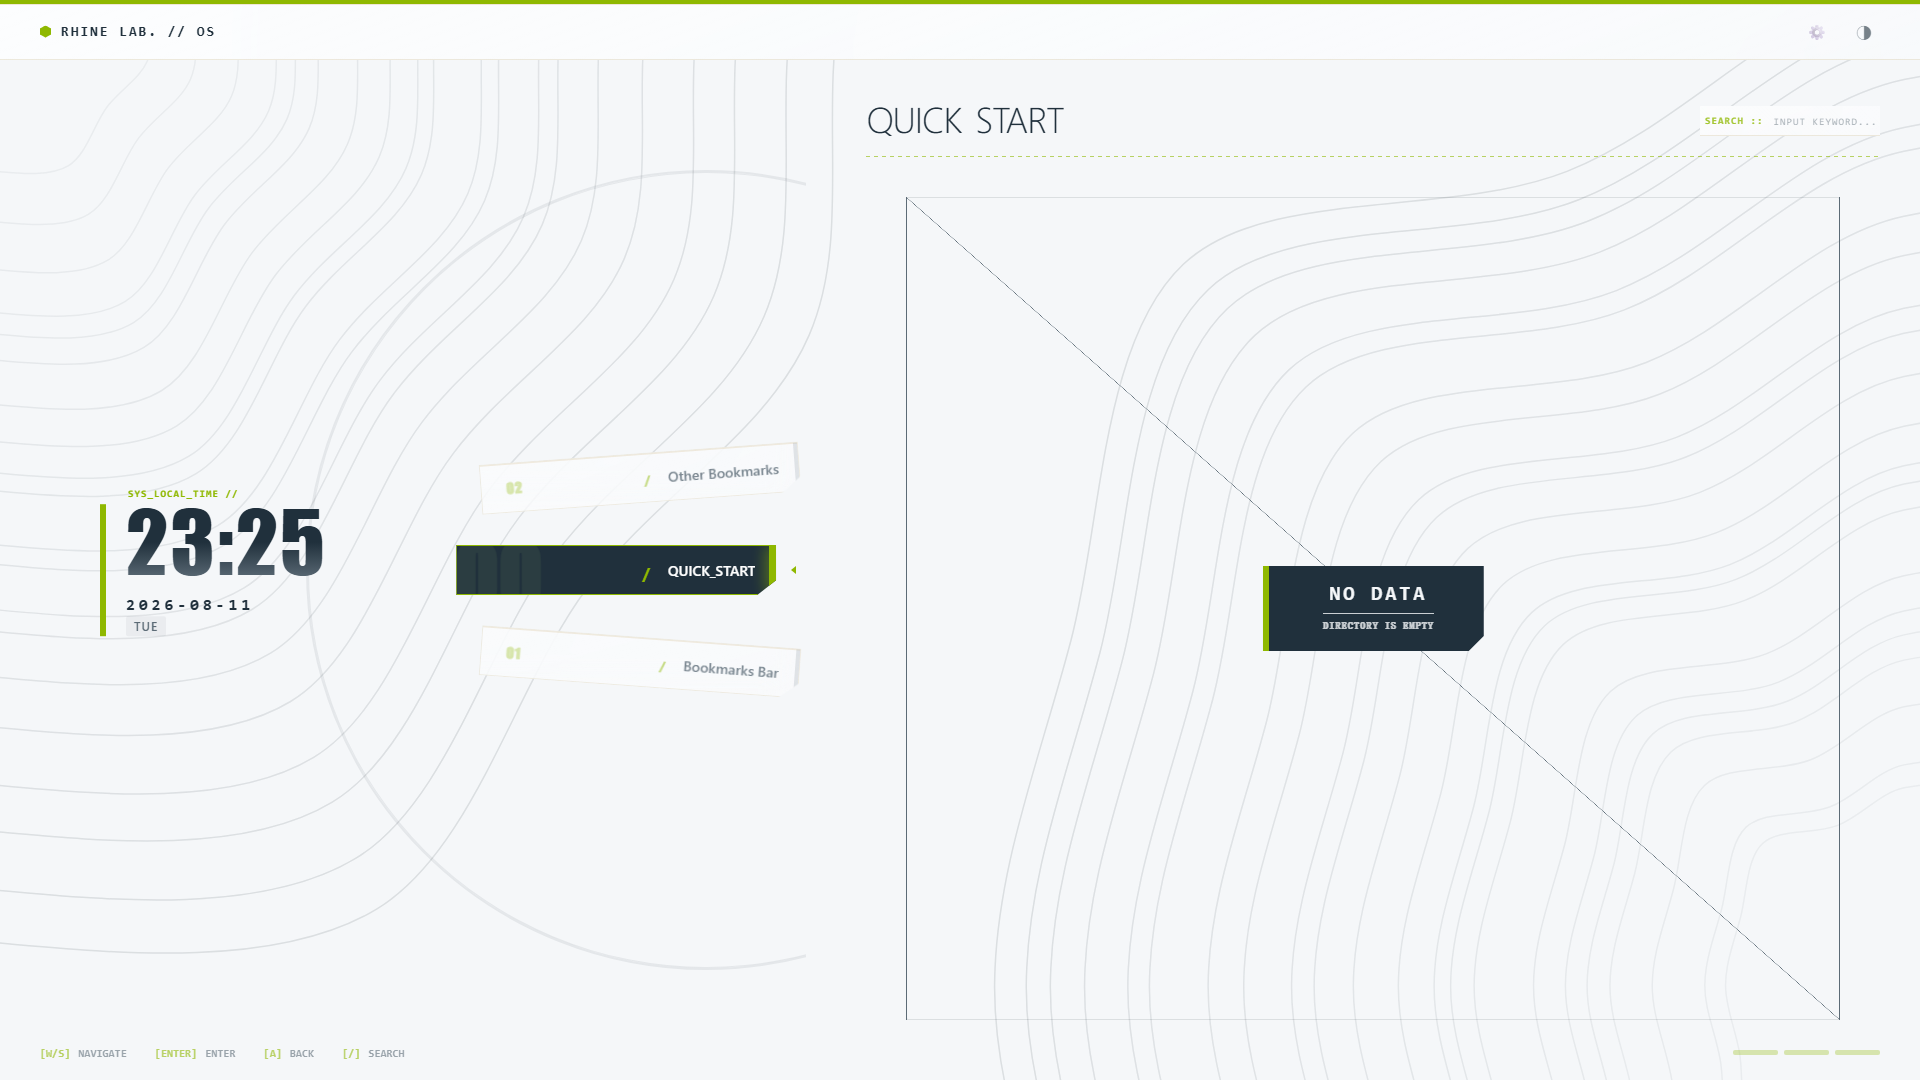
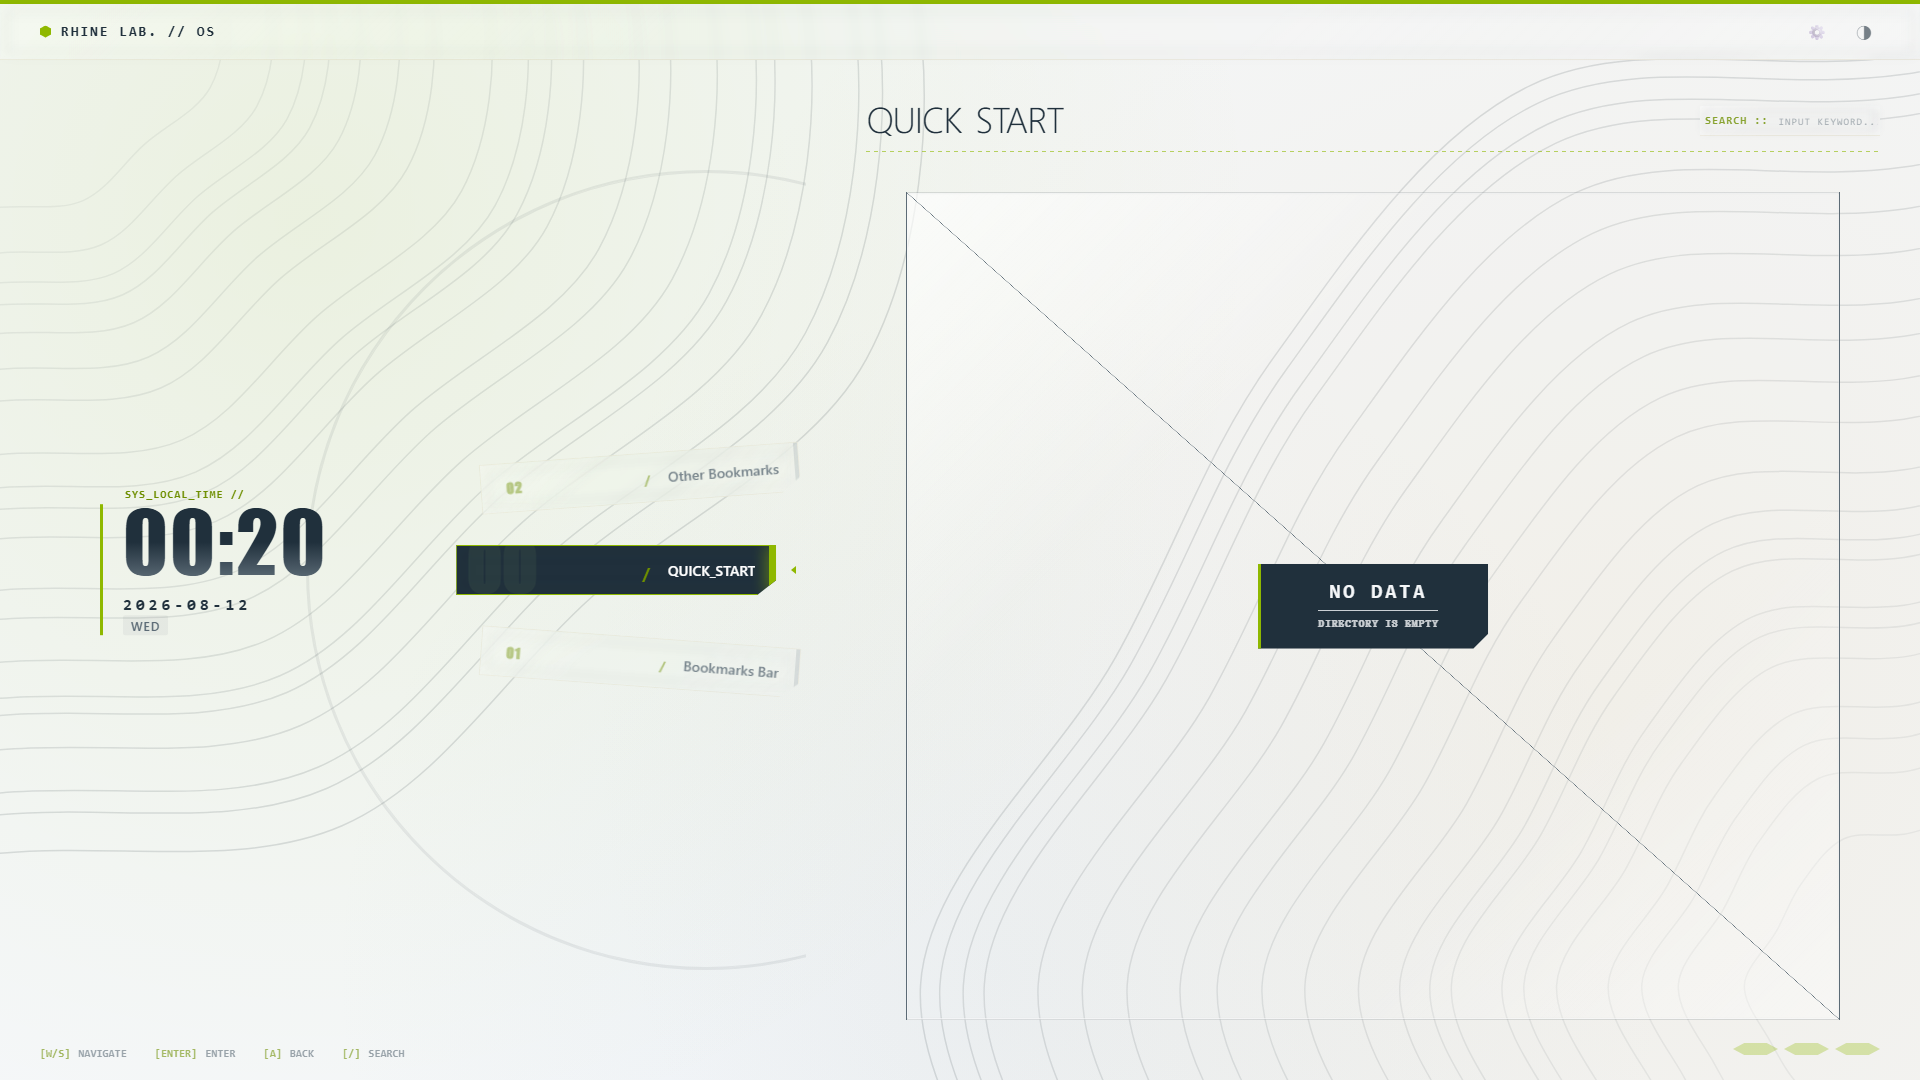
fix(ui): tune glass material - drop bg contrast filter, raise grid-line visibility
- filter: contrast() crushed the near-black/white theme backgrounds (yzrt trick incompatible with our bg values); removed it
- glass edge look now comes from rim/specular/ring layers + more visible contour lines (--grid-line 0.14/0.16)
- glow spots now render (bg-layer exists); regenerate light/dark screenshots

diff --git a/LoneTrail-Tab/css/variables.css b/LoneTrail-Tab/css/variables.css
@@ -25,7 +25,7 @@
 
     /* 线条与分隔 */
     --border: rgba(32, 48, 60, 0.12);
-    --grid-line: var(--border);
+    --grid-line: rgba(32, 48, 60, 0.14);
 
     /* 阴影与遮罩 */
     --shadow: rgba(16, 20, 24, 0.10);
@@ -88,7 +88,7 @@
     --danger-glow: rgba(255, 107, 107, 0.5);
 
     --border: rgba(230, 236, 240, 0.10);
-    --grid-line: var(--border);
+    --grid-line: rgba(230, 236, 240, 0.16);
 
     --shadow: rgba(0, 0, 0, 0.35);
     --shadow-soft: rgba(0, 0, 0, 0.25);

diff --git a/LoneTrail-Tab/css/base.css b/LoneTrail-Tab/css/base.css
@@ -49,8 +49,6 @@ body {
     z-index: -1;
     overflow: hidden;
     background-color: var(--bg-color);
-    /* 液态玻璃边缘增强：只作用于背景层，不触碰 UI 文字 */
-    filter: contrast(2.8);
 }
 
 /* 柔光斑层：位于等高线之下，磨砂面板之上提供通透感 */
